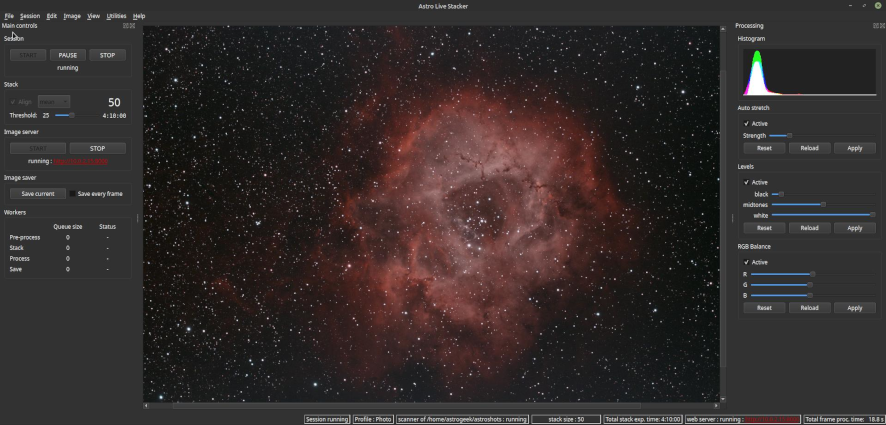
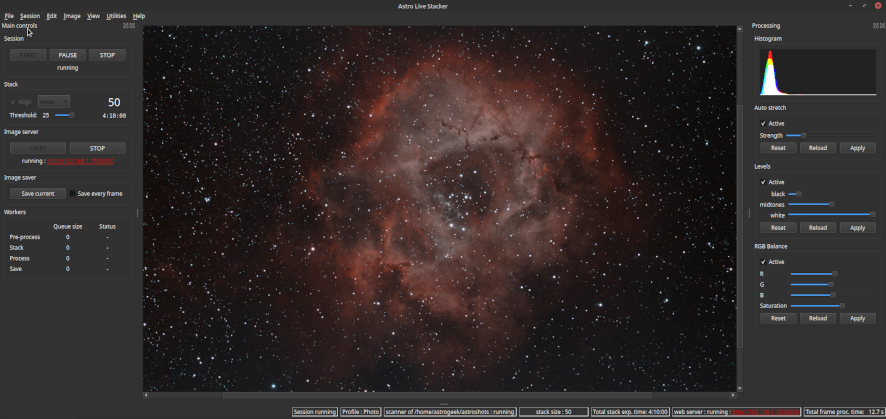
update main screenshot with v1.0 UI features

diff --git a/website/content/fr/_index.html b/website/content/fr/_index.html
@@ -24,7 +24,7 @@ type: "homepage"
     <section class="screenshot-section">
         {{< figure src="als-screenshot.png"
             width="886px"
-            height="425px"
+            height="419px"
             alt="capture d'écran ALS"
             class="screenshot" >}}
     </section>

diff --git a/website/content/en/_index.html b/website/content/en/_index.html
@@ -26,7 +26,7 @@ type: "homepage"
     <section class="screenshot-section">
         {{< figure src="als-screenshot.png"
             width="886px"
-            height="425px"
+            height="419px"
             alt="ALS screenshot"
             class="screenshot" >}}
     </section>
